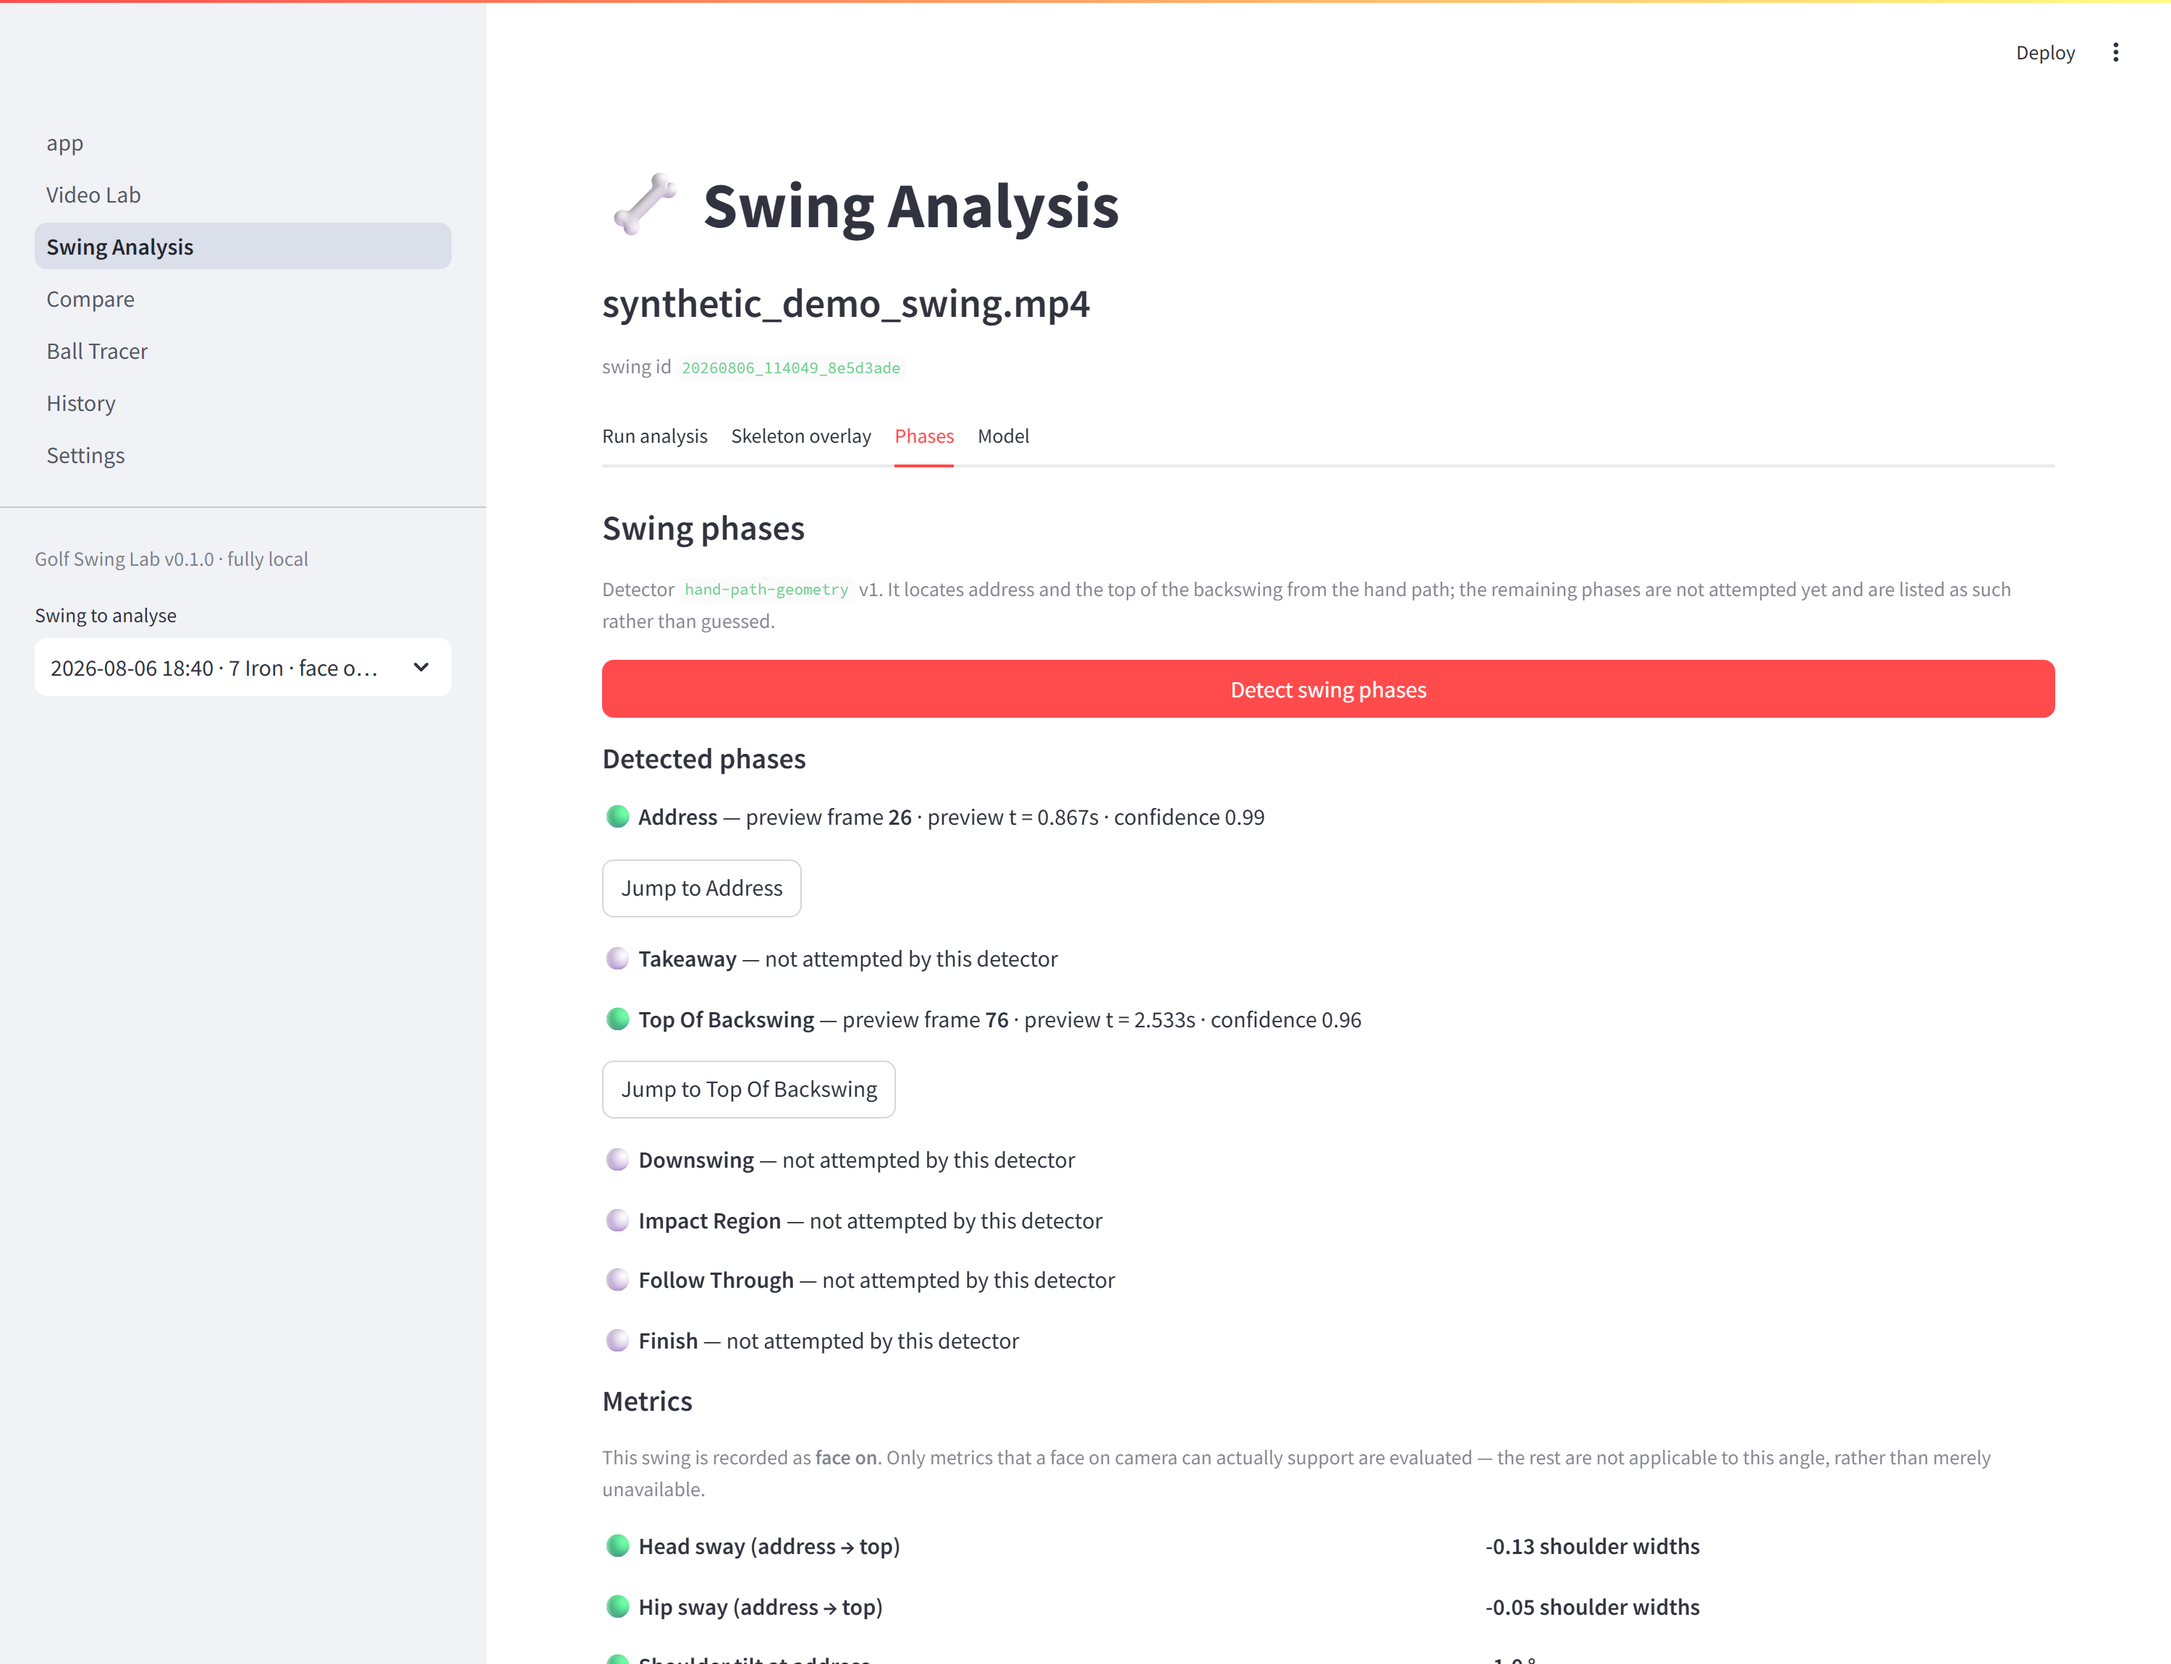
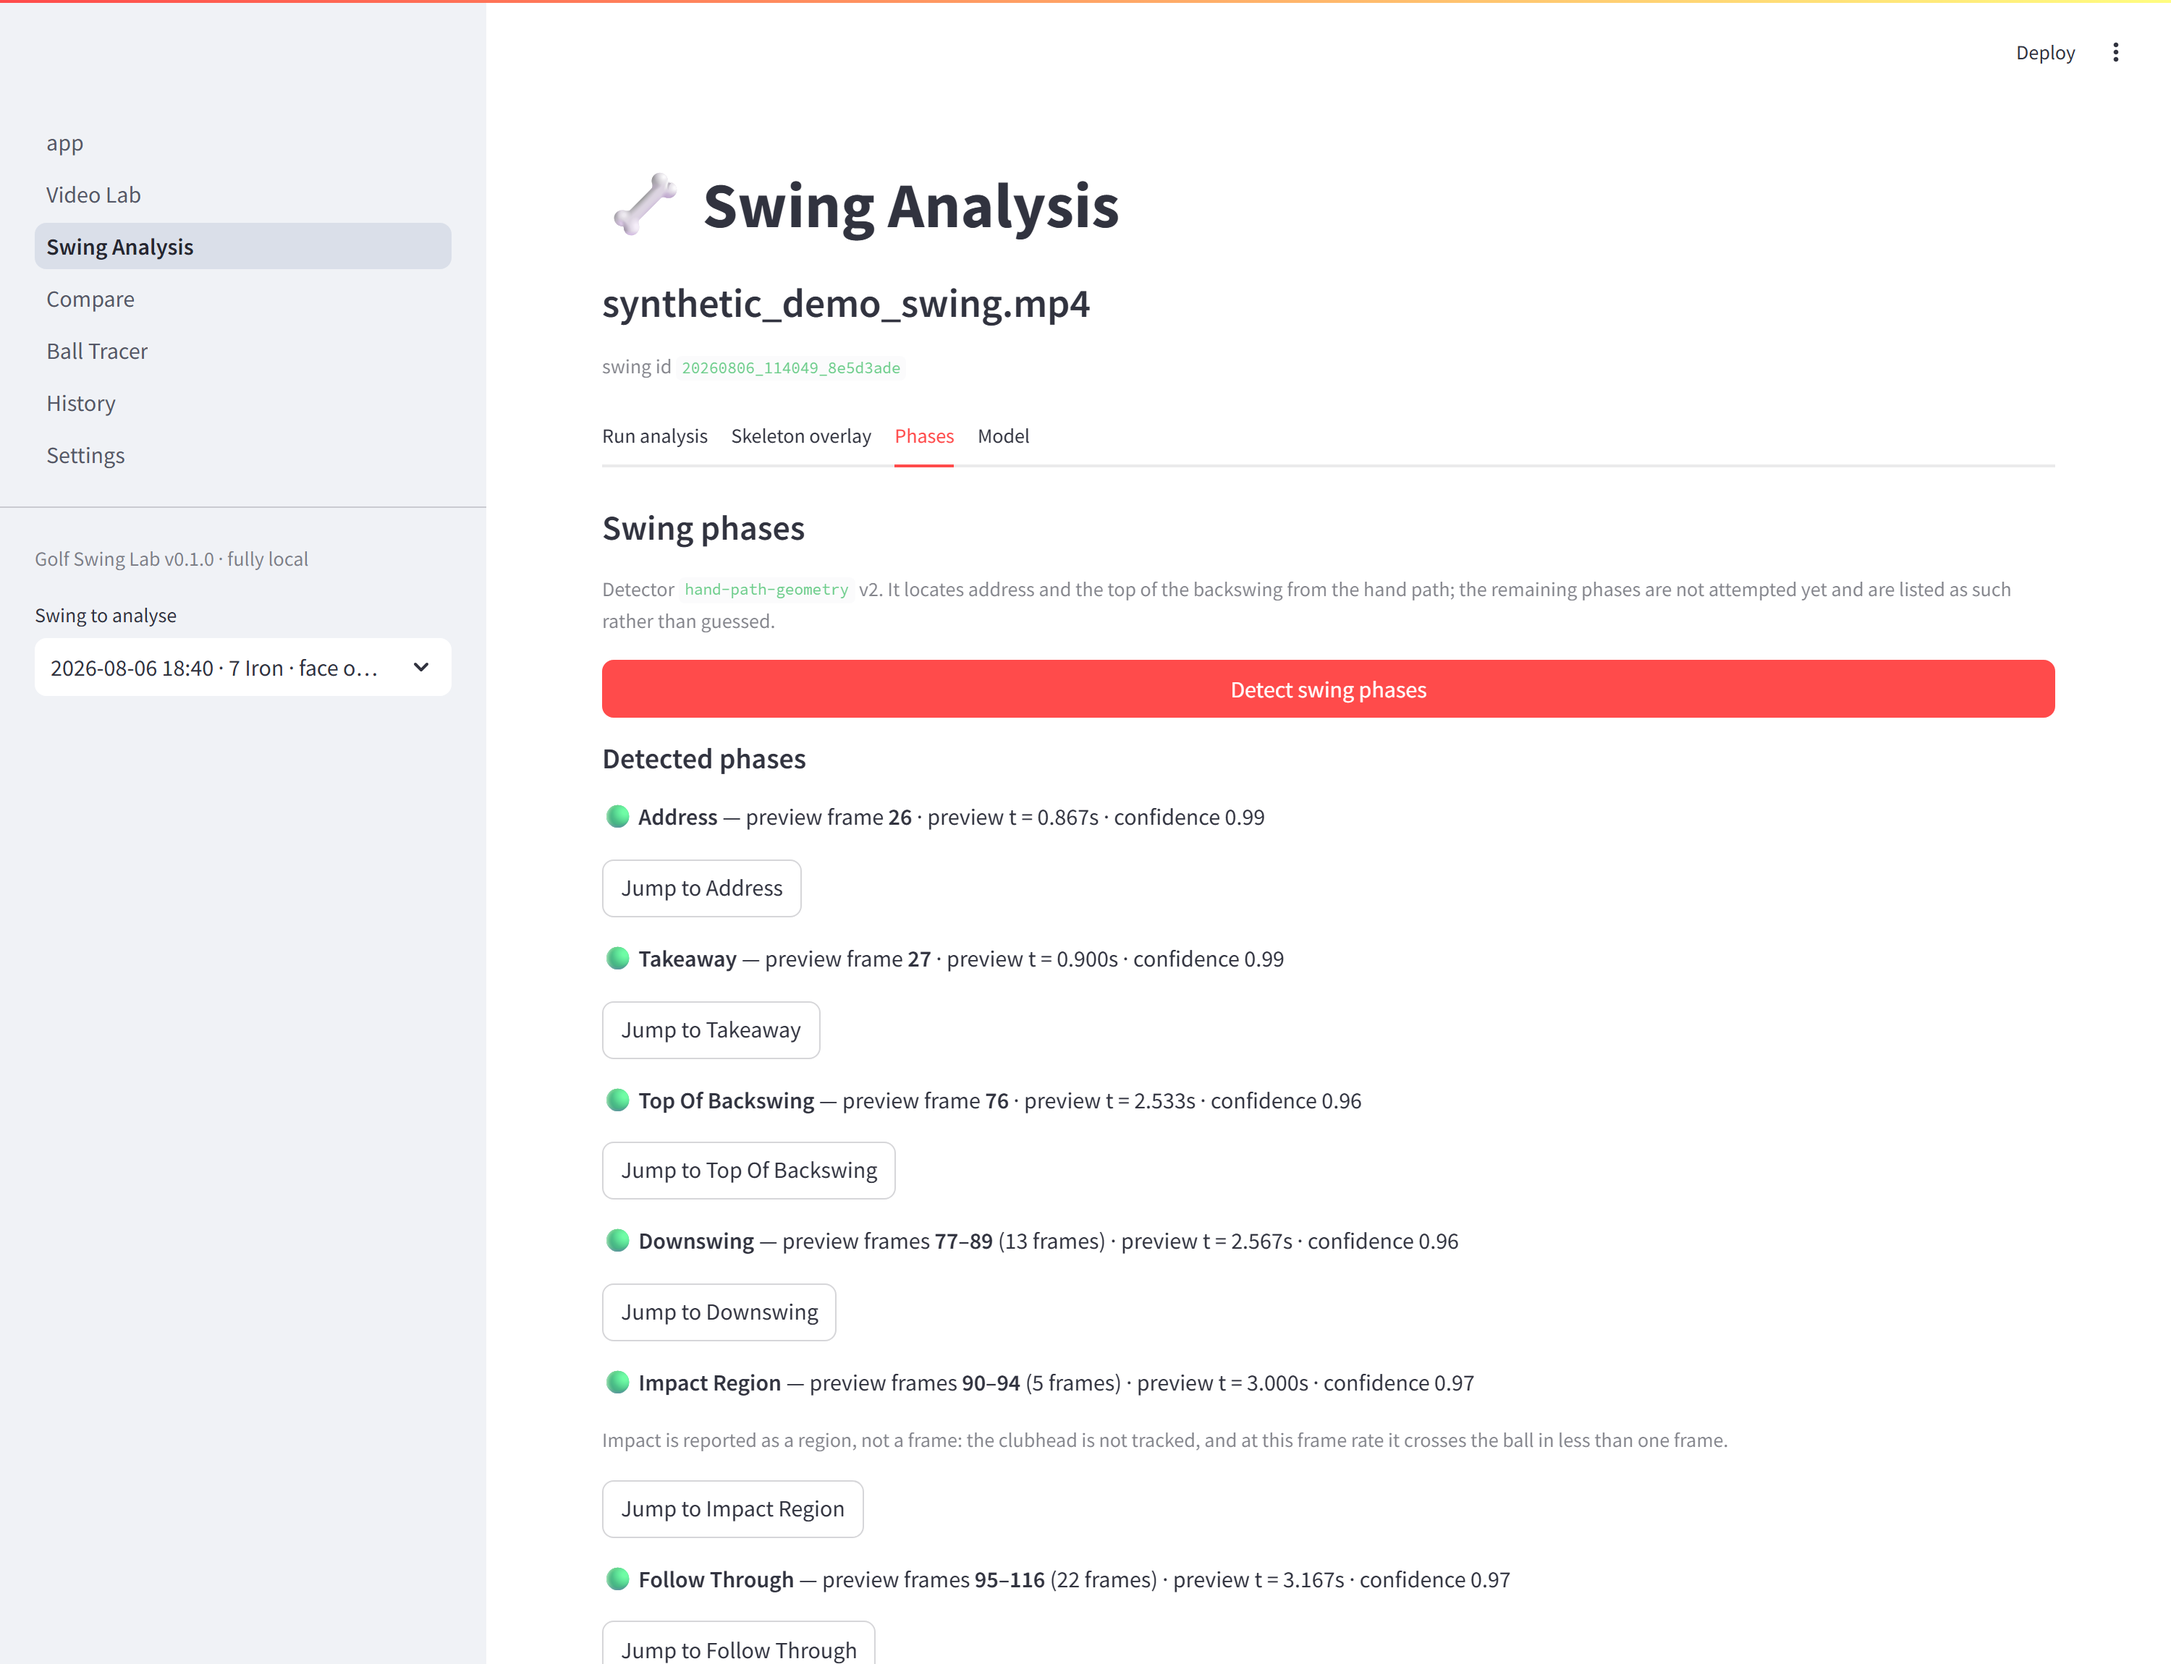
Document the full phase set and its two honest limits
ARCHITECTURE explains how each phase is located and spells out the two
decisions that need justifying: the top is bounded by peak hand speed
because the finish otherwise wins "highest hands" on about half of all
swings, and impact is a range because the clubhead is not tracked and at
30 fps it crosses the ball in under one frame interval.

Both carry their costs. The peak-speed bound collapses on a
backswing-only clip, so no top is reported there - documented in
LIMITATIONS with the advice to record through the finish. And range
endpoints can land in a pose gap, since they are boundaries derived from
neighbouring phases rather than observations; only point phases are
guaranteed to sit on observed frames.

ROADMAP marks the second slice delivered and leaves manual phase
correction, the unimplemented metrics, audio-assisted impact and
qualitative classifications outstanding, with tempo still blocked on
GSL-1.

README screenshot refreshed to the seven-phase output, and the release
table now distinguishes v0.2.0, main, and this branch rather than
implying main already carries this work.

412 tests pass, pip check clean.

diff --git a/README.md b/README.md
@@ -35,6 +35,7 @@ trustworthy, the app says so instead of showing a number:
 |---|---|
 | **[v0.2.0](https://github.com/johnsonto07/golf-swing-lab/releases/tag/v0.2.0)** | Milestone 2 — video import, preview normalization, pose model management, inference, smoothing, overlay, per-swing storage. |
 | **`main` (unreleased)** | Everything in v0.2.0 **plus** the first Milestone 3 slice: address and top-of-backswing detection, camera-view metric gating, and the Phases tab. |
+| **`milestone-3-phases`** | Adds the remaining five phases — takeaway, downswing, impact region, follow-through, finish. Merges into `main` once push-triggered CI is confirmed green. |
 
 The tag is immutable and describes Milestone 2 only. If you want exactly what
 was released, check out `v0.2.0`; if you want the phase work, use `main`.
@@ -69,9 +70,10 @@ was released, check out `v0.2.0`; if you want the phase work, use `main`.
 > On real phone footage the pose stage typically detects 100% of frames; the
 > synthetic figure detects ~98%.
 
-### In progress (Milestone 3, first slice)
+### In progress (Milestone 3)
 
-**Address** and **top of backswing** detection from the hand path, with a
+**All seven swing phases** detected from the hand path — address, takeaway,
+top of backswing, downswing, impact region, follow-through, finish — with a
 camera-view-gated metric registry. A metric declares which views it supports
 and is refused on the others *before* any computation runs — lateral hip sway
 means something face-on and nothing down-the-line.
@@ -87,7 +89,7 @@ See the limitation below.
 
 <p align="center">
   <img src="docs/images/swing-analysis-phases.png" alt="Phases tab: detected phases and camera-view-gated metrics" width="90%">
-  <br><em>Phases — address and top located as preview frames, unattempted phases labelled as such, and metrics gated to the swing's camera view.</em>
+  <br><em>Phases — all seven located as preview frames, impact as a region rather than an instant, and metrics gated to the swing's camera view.</em>
 </p>
 
 **Not built yet:** reference comparison, ball tracer, and coaching. See the
@@ -255,10 +257,12 @@ presenting stale results as current.
 Click **Detect swing phases**. It reads the stored landmarks — no model, no
 network, about a millisecond — and reports:
 
-- **Address** and **top of backswing** as preview frame numbers, with
+- **all seven phases** as preview frame numbers or frame *ranges*, each with
   confidence and a jump-to button
-- every other phase as "not attempted by this detector", which is a different
-  statement from "attempted and failed"
+- **impact as a region**, never a single frame — the clubhead is not tracked
+- any phase that could not be found, with the reason, and any phase a narrower
+  detector did not attempt as "not attempted", which is a different statement
+  from "attempted and failed"
 - the metrics valid for this swing's camera view, each with a status and, when
   unavailable, the reason
 
@@ -360,7 +364,7 @@ not a green build. CI reports **371 passed, 10 skipped**: the 10 are the
 real-model integration tests, which skip by design because CI deliberately
 never downloads a model from a third party.
 
-381 tests covering metadata extraction, frame-rate parsing, rotation handling,
+412 tests covering metadata extraction, frame-rate parsing, rotation handling,
 frame accuracy, timestamp conversion, preview generation and orientation,
 filename sanitization, serialization round-trips, cache keys, diagnostics
 secret-safety, the full import pipeline, and all of Milestone 2: the pose

diff --git a/docs/ARCHITECTURE.md b/docs/ARCHITECTURE.md
@@ -82,6 +82,57 @@ golf_lab/storage/
   analysis_repository.py  swing_analysis.json + derived-result staleness
 ```
 
+### How phases are located, and why impact is a region
+
+All seven phases come from the path of the hands. Shoulder and hip rotation are
+more meaningful biomechanically, but they project very differently face-on
+versus down-the-line, so a detector built on them would have to be two
+detectors. Hand height and hand speed read similarly from either angle.
+
+```
+address ──► takeaway ──► top ──► downswing ──► impact region
+                                           └──► follow-through ──► finish
+```
+
+| Phase | How it is found |
+|---|---|
+| Address | last frame of the initial quiet period |
+| Takeaway | first frame of sustained motion — the same measurement as address, read from the other side |
+| Top | highest hands between address and peak hand speed |
+| Impact region | frames where the hands return to address height |
+| Downswing | between the top and the impact region |
+| Follow-through | between the impact region and the finish |
+| Finish | first sustained quiet after impact |
+
+Two of these deserve their reasoning spelled out.
+
+**The top is bounded by peak hand speed.** The finish usually has the hands
+just as high as the top, so "highest hands in the clip" finds the wrong one on
+about half of all swings. Peak hand speed is always the downswing, so searching
+only between address and that point separates them. The cost is a real
+limitation: on a clip containing *only* a backswing, peak speed falls inside
+the backswing and the bound collapses, so no top is reported. The detector
+refuses rather than guessing, and a test pins that.
+
+**Impact is a range, never a frame.** The clubhead is not tracked, so the hands
+only indicate roughly when the club came back through the ball — and at 30 fps
+the clubhead crosses the ball in well under one frame interval. Reporting an
+"impact frame" would be a precision the input cannot support. The half-width
+scales with frame rate, because a 240 fps clip genuinely localises it better.
+
+Three properties came out of tests failing against realistic synthetic swings:
+the hand path is smoothed before differentiating (raw differences of noisy
+landmarks measure jitter more than motion); motion must be *sustained* over
+several frames to count (one frame over threshold is noise); and the
+noise-floor term is capped relative to peak speed (on a clip moving from frame
+one, a percentile of the speeds measures the swing, not the noise).
+
+**Range endpoints may fall in a pose gap.** They are boundaries derived from
+neighbouring phases — the downswing runs from the frame after the top to the
+frame before impact — so a gap can land on one. The invariant that *is*
+enforced is that a **point** phase (address, takeaway, top, finish) never sits
+on a frame where no pose was observed.
+
 ### Camera-view gating lives in the registry, not the UI
 
 A single 2D camera cannot see what it is not pointed at. Lateral hip sway is

diff --git a/docs/LIMITATIONS.md b/docs/LIMITATIONS.md
@@ -76,12 +76,30 @@ If you need trustworthy tempo today, record in a mode that produces constant
 frame rate, and check `Variable frame rate: no` in the Video Lab's Original
 file panel.
 
-## Swing phases and metrics (Milestone 3, first slice)
+## Swing phases and metrics (Milestone 3)
 
-Only **address** and **top of backswing** are detected. Both come from the hand
-path, which is the one signal a single camera reads reliably from either angle.
-The other phases are not attempted, and the UI says "not attempted by this
-detector" rather than leaving a gap you might read as a failure.
+All seven phases are detected — address, takeaway, top of backswing, downswing,
+impact region, follow-through, finish — all from the hand path, which is the one
+signal a single camera reads reliably from either angle.
+
+**Impact is a region, not a frame, and this will not change.** The clubhead is
+not tracked, so the hands only show roughly when the club came back through the
+ball, and at 30 fps the clubhead crosses the ball in well under one frame
+interval. A single "impact frame" would be a precision this input cannot
+support. The region narrows in real time at higher frame rates, but it stays a
+region.
+
+**Known limitation: a backswing-only clip finds no top.** The top is located as
+the highest hands *between address and peak hand speed* — that bound is what
+stops the finish, where the hands are usually just as high, from being mistaken
+for the top. On a clip that ends at the top, peak speed falls inside the
+backswing and the bound collapses. The detector reports no top and blocks the
+dependent phases rather than guessing. Record through the finish.
+
+**Range phases can start or end on a frame with no pose.** Their endpoints are
+boundaries derived from the neighbouring phases, not observations. Point phases
+— address, takeaway, top, finish — are always on frames where a pose was
+actually seen.
 
 **Metrics depend on the camera view, and this is enforced.** A metric declares
 which views it supports and is refused on the others before any arithmetic

diff --git a/docs/ROADMAP.md b/docs/ROADMAP.md
@@ -117,9 +117,23 @@ and useless for ball tracking:
   buttons, per-metric status and reason, and the VFR warning retained
 - 107 tests covering the above
 
+### ✅ Second vertical slice (delivered)
+
+- **All seven phases detected** from the hand path: address, takeaway, top of
+  backswing, downswing, impact region, follow-through, finish
+- Impact reported as a **region**, never a frame — the clubhead is not tracked
+  and at 30 fps it crosses the ball in under one frame interval; the region
+  half-width scales with frame rate
+- Range phases render as ranges in the UI, with the impact caveat inline
+- Dependency-ordered detection: a missing phase blocks its dependents with a
+  reason naming what was absent, reported as `insufficient_frames` rather than
+  `detection_failed` so a cascade stays distinguishable from a real failure
+- Detector version 1 → 2, which invalidates stored analyses without re-running
+  MediaPipe
+- 412 tests
+
 ### ⬜ Remaining in Milestone 3
 
-- Takeaway, downswing, impact region, follow-through, finish detection
 - Manual phase correction that outranks the automatic suggestion
 - Implement the declared-but-not-yet-computed metrics (lead-arm angle,
   hip line, hip depth, posture change, shoulder line)
